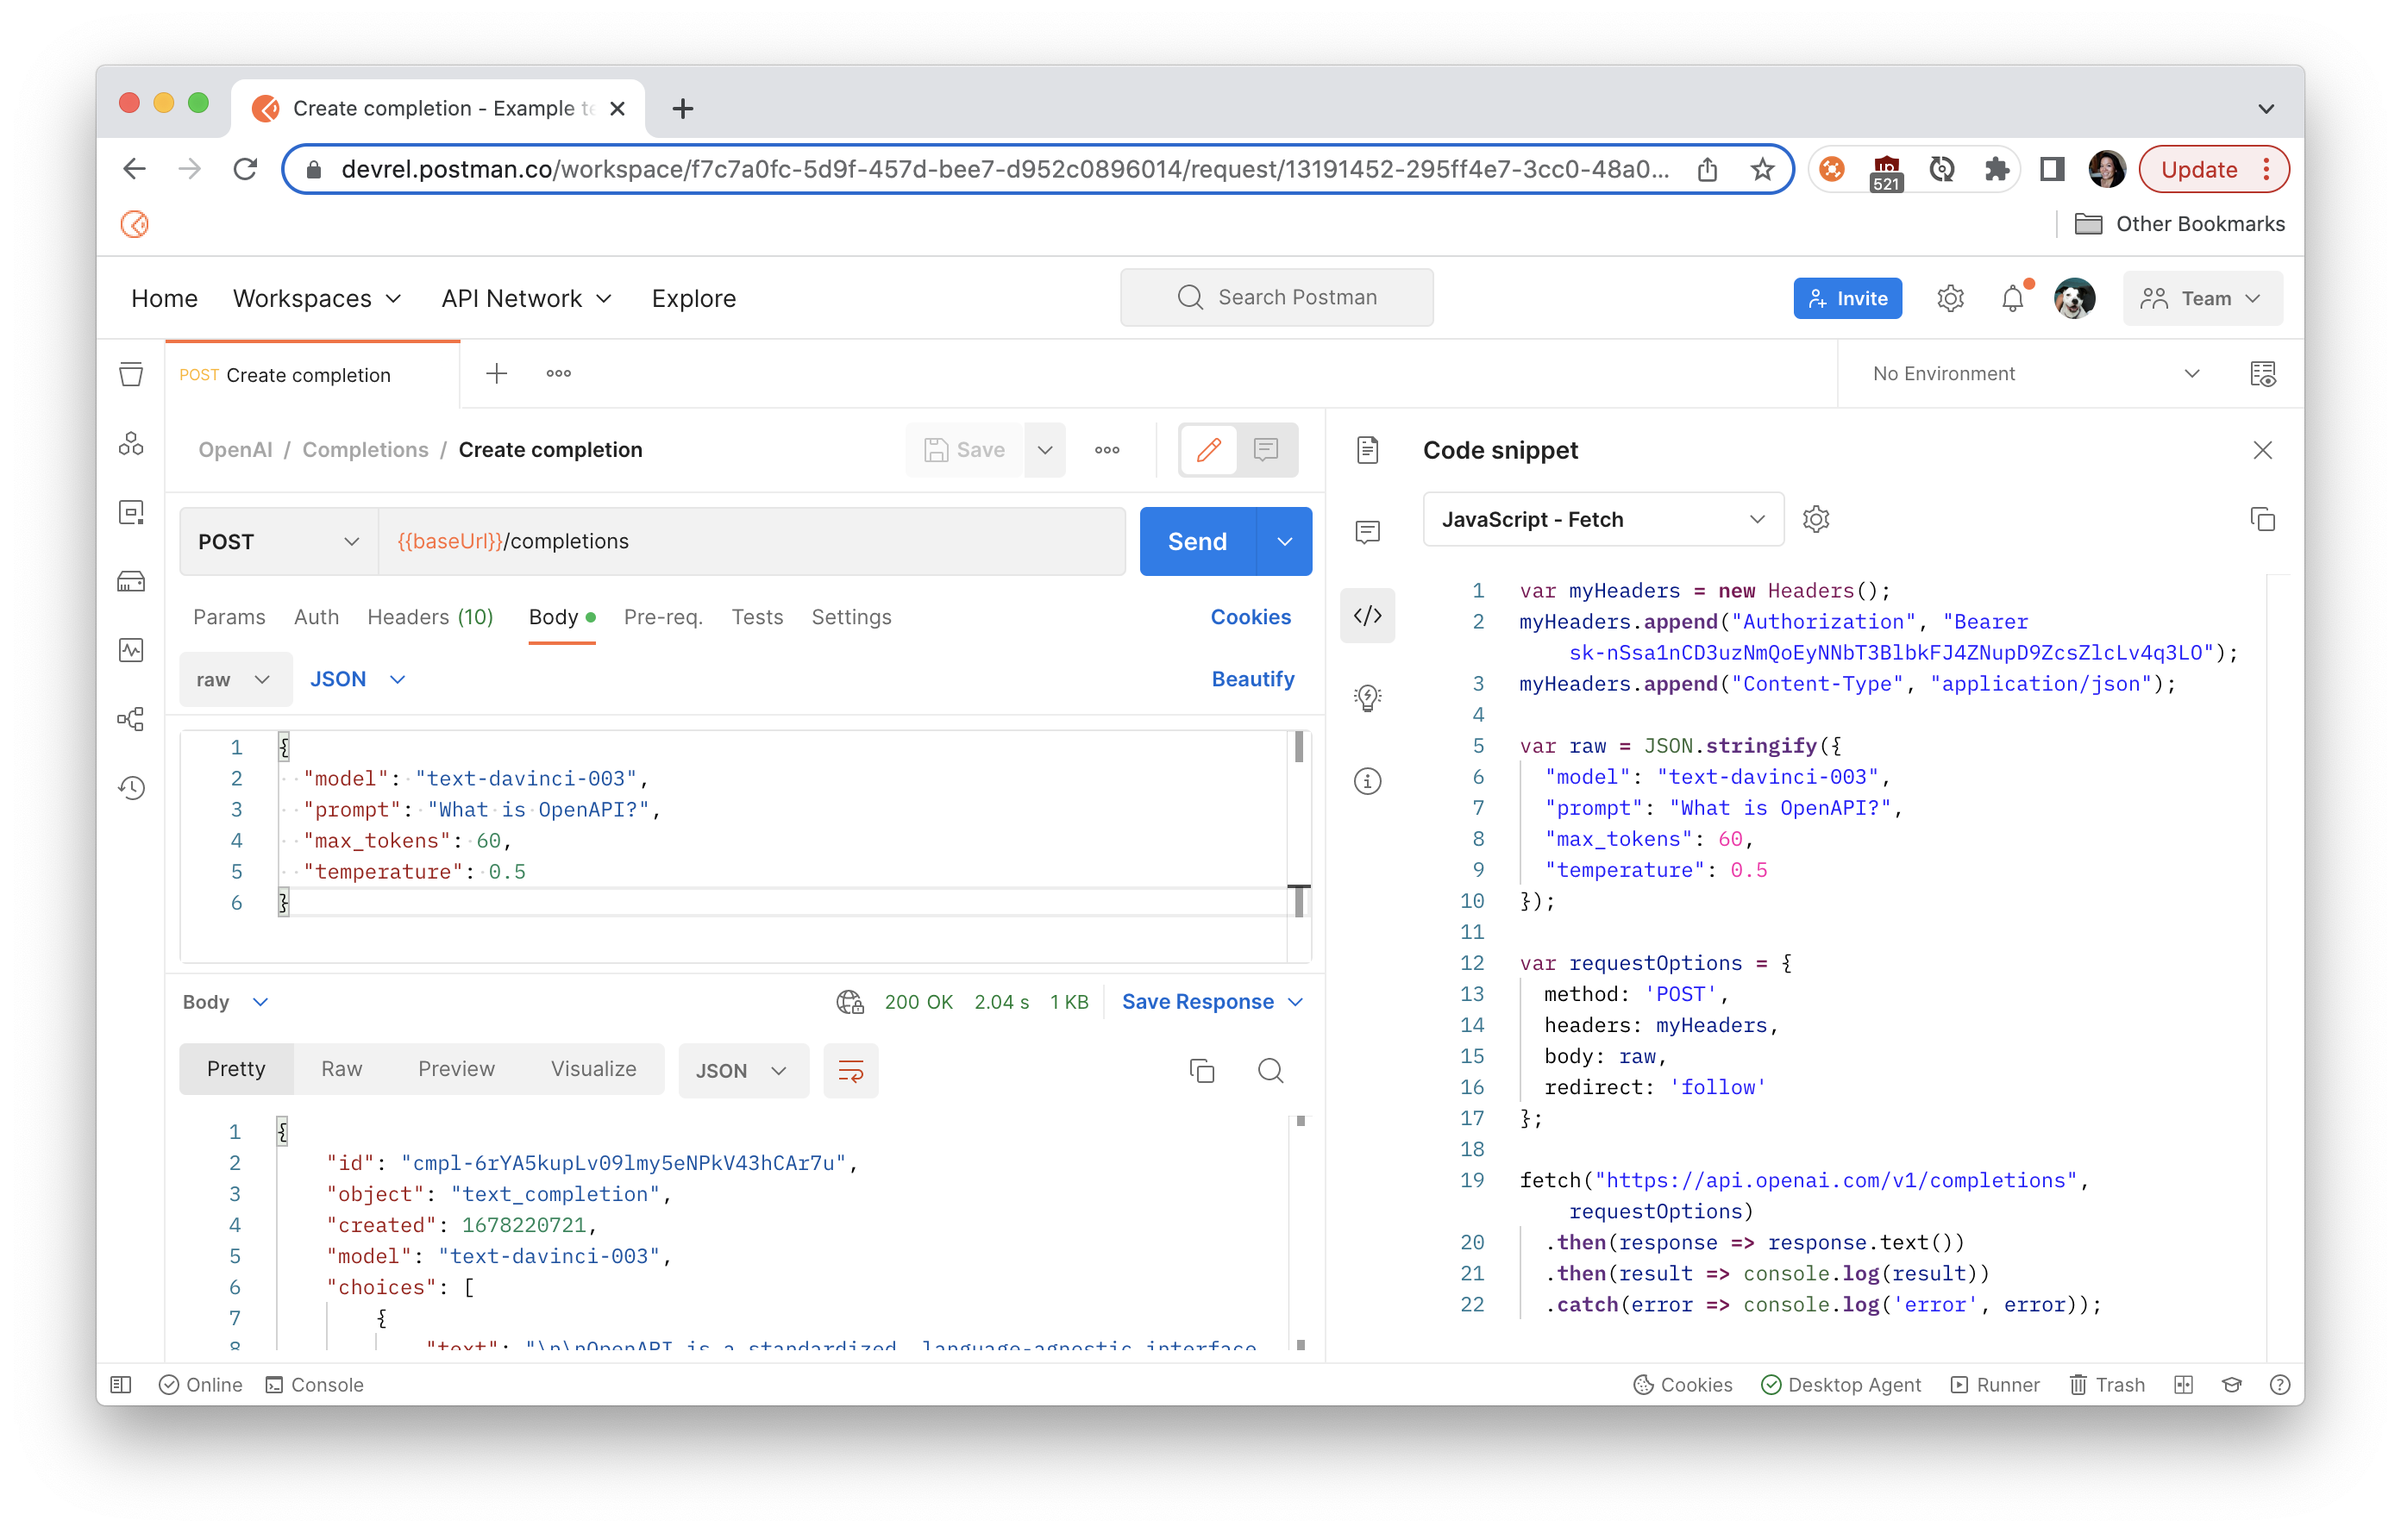
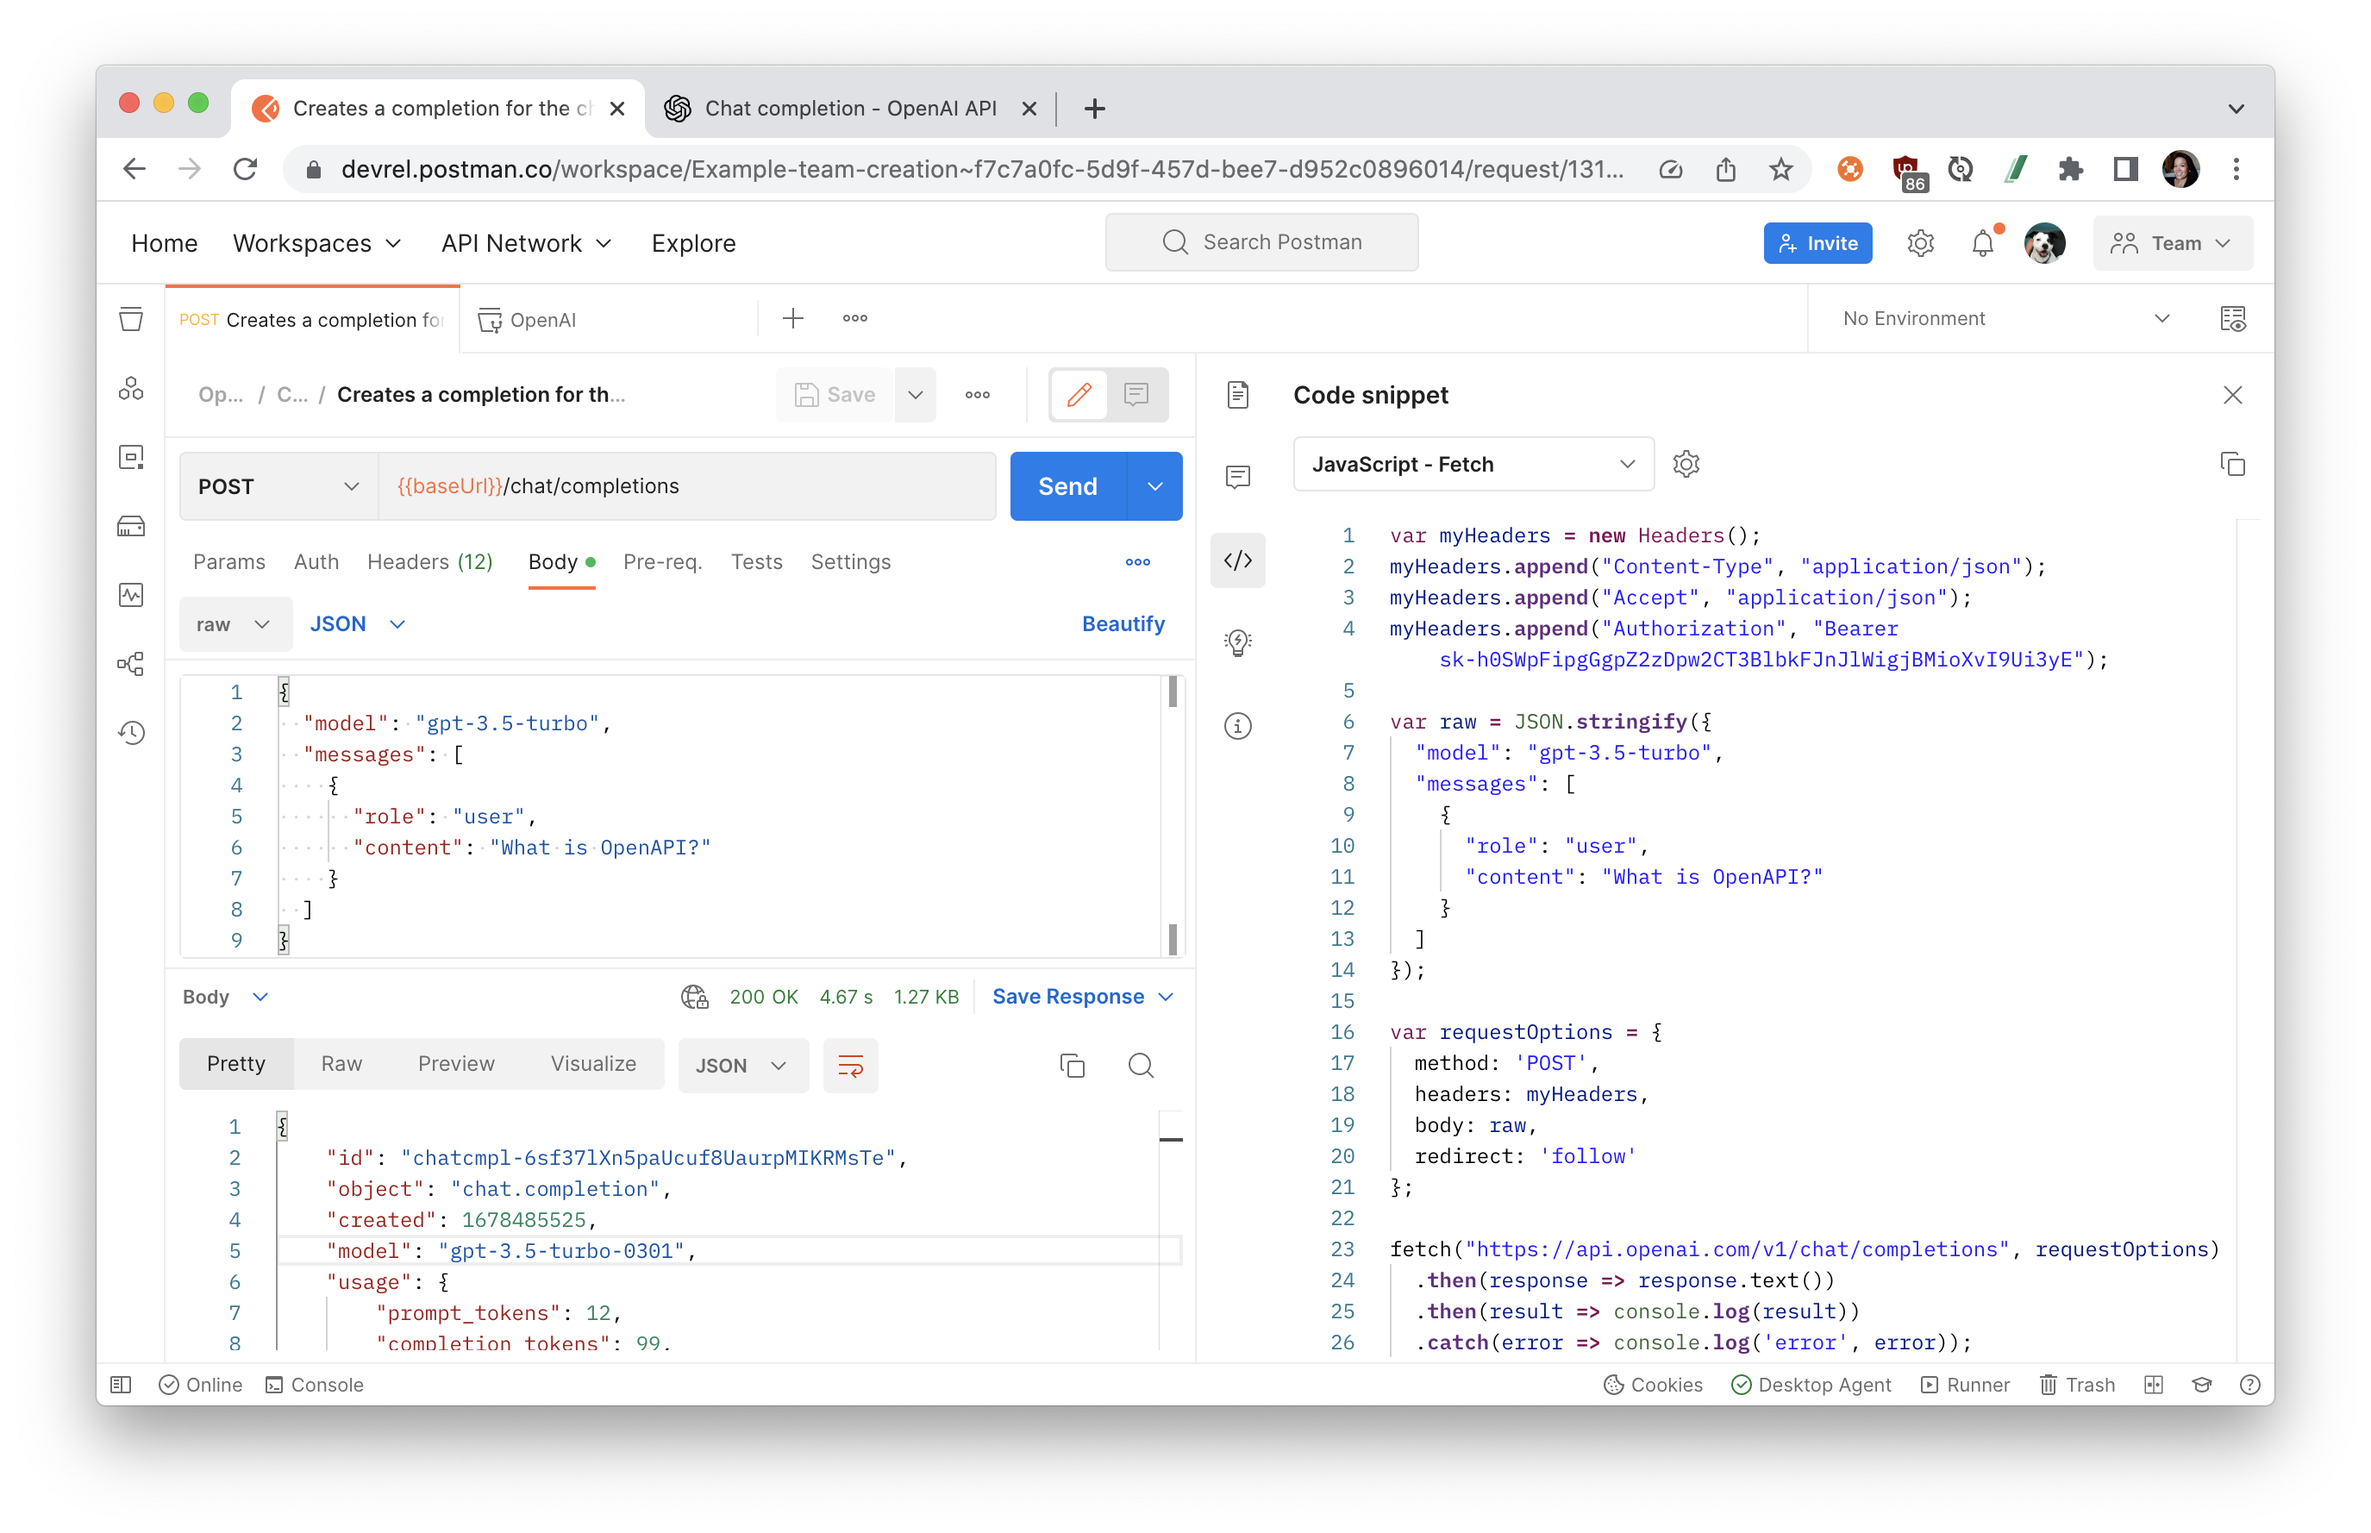
update ai model chatgpt

diff --git a/site/pmguides/src/chatgpt/chatgpt.md b/site/pmguides/src/chatgpt/chatgpt.md
@@ -78,22 +78,25 @@ To change the way Postman configures the authorization, you can update the setti
 
 Duration: 2
 
-This example uses the [Completions API](https://platform.openai.com/docs/api-reference/completions) and the `text-davinci-003` artificial intelligence model to to perform a query similar to what you can do on [the ChatGPT website](https://chat.openai.com/).
+This example uses the [Chat API](https://platform.openai.com/docs/api-reference/chat) and the `gpt-3.5-turbo` artificial intelligence model to perform a single-turn query or turn-based chat, similar to what you can do on [the ChatGPT website](https://chat.openai.com/).
 
-Negative
-: You can also use the [Chat API](https://platform.openai.com/docs/api-reference/chat) and the `gpt-3.5-turbo` artificial intelligence model to perform a single-turn or turn-based chat. Learn about the difference between [chat and completions](https://platform.openai.com/docs/guides/chat/chat-vs-completions)
+> aside negative
+> You can also use the [Completions API](https://platform.openai.com/docs/api-reference/completions) and the older `text-davinci-003` artificial intelligence model to perform a single-turn query. Learn about the difference between [chat and completions](https://platform.openai.com/docs/guides/chat/chat-vs-completions)
 
 To create a query:
 
 1. In your Postman workspace, navigate to your fork of the OpenAI collection.
-1. Select `Completions` > `Create completion`. Under the **Body** tab, add a request body formatted like the following example:
+1. Select `Chat` > `Creates a completion for the chat message`. Under the **Body** tab, add a request body formatted like the following example:
 
    ```json
    {
-     "model": "text-davinci-003",
-     "prompt": "What is OpenAPI?",
-     "max_tokens": 60,
-     "temperature": 0.5
+     "model": "gpt-3.5-turbo",
+     "messages": [
+       {
+         "role": "user",
+         "content": "What is OpenAPI?"
+       }
+     ]
    }
    ```
 
@@ -101,23 +104,25 @@ To create a query:
 
    ```json
    {
-     "id": "cmpl-6rYA5kupLv09lmy5eNPkV43hCAr7u",
-     "object": "text_completion",
-     "created": 1678220721,
-     "model": "text-davinci-003",
+     "id": "chatcmpl-6sf37lXn5paUcuf8UaurpMIKRMsTe",
+     "object": "chat.completion",
+     "created": 1678485525,
+     "model": "gpt-3.5-turbo-0301",
+     "usage": {
+       "prompt_tokens": 12,
+       "completion_tokens": 99,
+       "total_tokens": 111
+     },
      "choices": [
        {
-         "text": "\n\nOpenAPI is a standardized, language-agnostic interface to RESTful APIs which allows both humans and computers to discover and understand the capabilities of the service without any prior knowledge of how the service works. It uses a language-agnostic interface definition to describe the capabilities of an API, which",
-         "index": 0,
-         "logprobs": null,
-         "finish_reason": "length"
+         "message": {
+           "role": "assistant",
+           "content": "\n\nOpenAPI (formerly called Swagger) is a specification for building APIs (Application Programming Interfaces). It describes the operations and parameters that an API can accept, as well as the data structures that are returned from API calls. The specification supports both JSON and YAML formats and provides a standard format for describing RESTful APIs. By using OpenAPI, developers can describe their APIs in a consistent, machine-readable format that can be easily consumed by API documentation tools, code generators, and other programming tools."
+         },
+         "finish_reason": "stop",
+         "index": 0
        }
-     ],
-     "usage": {
-       "prompt_tokens": 5,
-       "completion_tokens": 60,
-       "total_tokens": 65
-     }
+     ]
    }
    ```
 
@@ -125,8 +130,8 @@ Upon a successful `200 OK` response, you can inspect the response body, includin
 
 ![successful API request](assets/success.png)
 
-Negative
-: Be careful hitting **Send** too many times, since you might reach [OpenAI rate limits](https://platform.openai.com/docs/guides/rate-limits) if you're on a free account.
+> aside negative
+> Be careful hitting **Send** too many times, since you might reach [OpenAI rate limits](https://platform.openai.com/docs/guides/rate-limits) if you're on a free account.
 
 <!-- ------------------------ -->
 

diff --git a/site/pmguides/src/connect_postman_to_salesforce/connect_postman_to_salesforce.md b/site/pmguides/src/connect_postman_to_salesforce/connect_postman_to_salesforce.md
@@ -15,8 +15,8 @@ tags: Getting Started, Developer
 
 Duration: 1
 
-Negative
-: This course was originally created by [Salesforce](https://trailhead.salesforce.com/content/learn/projects/quick-start-connect-postman-to-salesforce) and has been modified to suit the Quickstart format. Complete this lesson in Trailhead to collect your Salesforce learning badge.
+> aside negative
+> This course was originally created by [Salesforce](https://trailhead.salesforce.com/content/learn/projects/quick-start-connect-postman-to-salesforce) and has been modified to suit the Quickstart format. Complete this lesson in Trailhead to collect your Salesforce learning badge.
 
 ### Prerequisites
 
@@ -68,8 +68,8 @@ The Salesforce Platform APIs for Postman collection is a resource that wraps tog
 
 For this project, you need to create a new Trailhead Playground. Scroll to the bottom of this page, click the playground name, then click **Create Playground**. It typically takes 3–4 minutes to create a new Trailhead Playground.
 
-Negative
-: Note: Yes, we really mean a brand-new Trailhead playground! If you use an existing org or playground, you can run into problems completing the project.
+> aside negative
+> Note: Yes, we really mean a brand-new Trailhead playground! If you use an existing org or playground, you can run into problems completing the project.
 
 ### Get Your Trailhead Playground Username and Password
 
@@ -134,8 +134,8 @@ You need to authenticate with Salesforce to access the APIs. Authentication gran
 1. The Authorization tab should be open.
 1. Type should be OAuth 2.0.
 1. Click **Get New Access Token**.
-   Negative
-   : Note - If you're not logged in to a Trailhead Playground or Salesforce org, a browser tab opens with the Salesforce login screen. Enter the username and password you saved in the previous step to log in.
+   > aside negative
+   > Note - If you're not logged in to a Trailhead Playground or Salesforce org, a browser tab opens with the Salesforce login screen. Enter the username and password you saved in the previous step to log in.
 1. Click **Allow** to let the “Salesforce Platform APIs Collection for Postman” access your Trailhead Playground
    <img src="assets/allow_access.webp" alt="allow access" width="200"/>
 1. A success message appears briefly, and then you're redirected to the Manage Access Tokens dialog.
@@ -157,9 +157,9 @@ Let's verify that the connection is working.
 1. Click **Send**.
    ![send request](assets/200OK.webp)
 1. Verify that the status is 200 OK.
-   Negative
-   : You may need to turn **Follow Authorization** header configuration ON to retain authorization header when a redirect happens to a different hostname.
-   ![follow authorization header](assets/follow_auth.webp)
+   > aside negative
+   > You may need to turn **Follow Authorization** header configuration ON to retain authorization header when a redirect happens to a different hostname.
+   > ![follow authorization header](assets/follow_auth.webp)
 
 You've successfully authenticated with Salesforce. Now you can use other requests in the collection.
 
@@ -186,8 +186,8 @@ You just pulled some data from the org. Let's try adding some new data to the or
    ![returns id](assets/returns_id.webp)
 1. Verify that the status is 201 Created.
 
-Negative
-: Note: If you don't get the status 201 Created then you might be signed into a different org. Verify that your instance_url is set to your Trailhead Playground.
+> aside negative
+> Note: If you don't get the status 201 Created then you might be signed into a different org. Verify that your instance_url is set to your Trailhead Playground.
 
 Excellent! You've set up Postman to interact with your org. The Salesforce APIs for Postman collection that you loaded will aid you in your quest to discover the Salesforce APIs.
 
